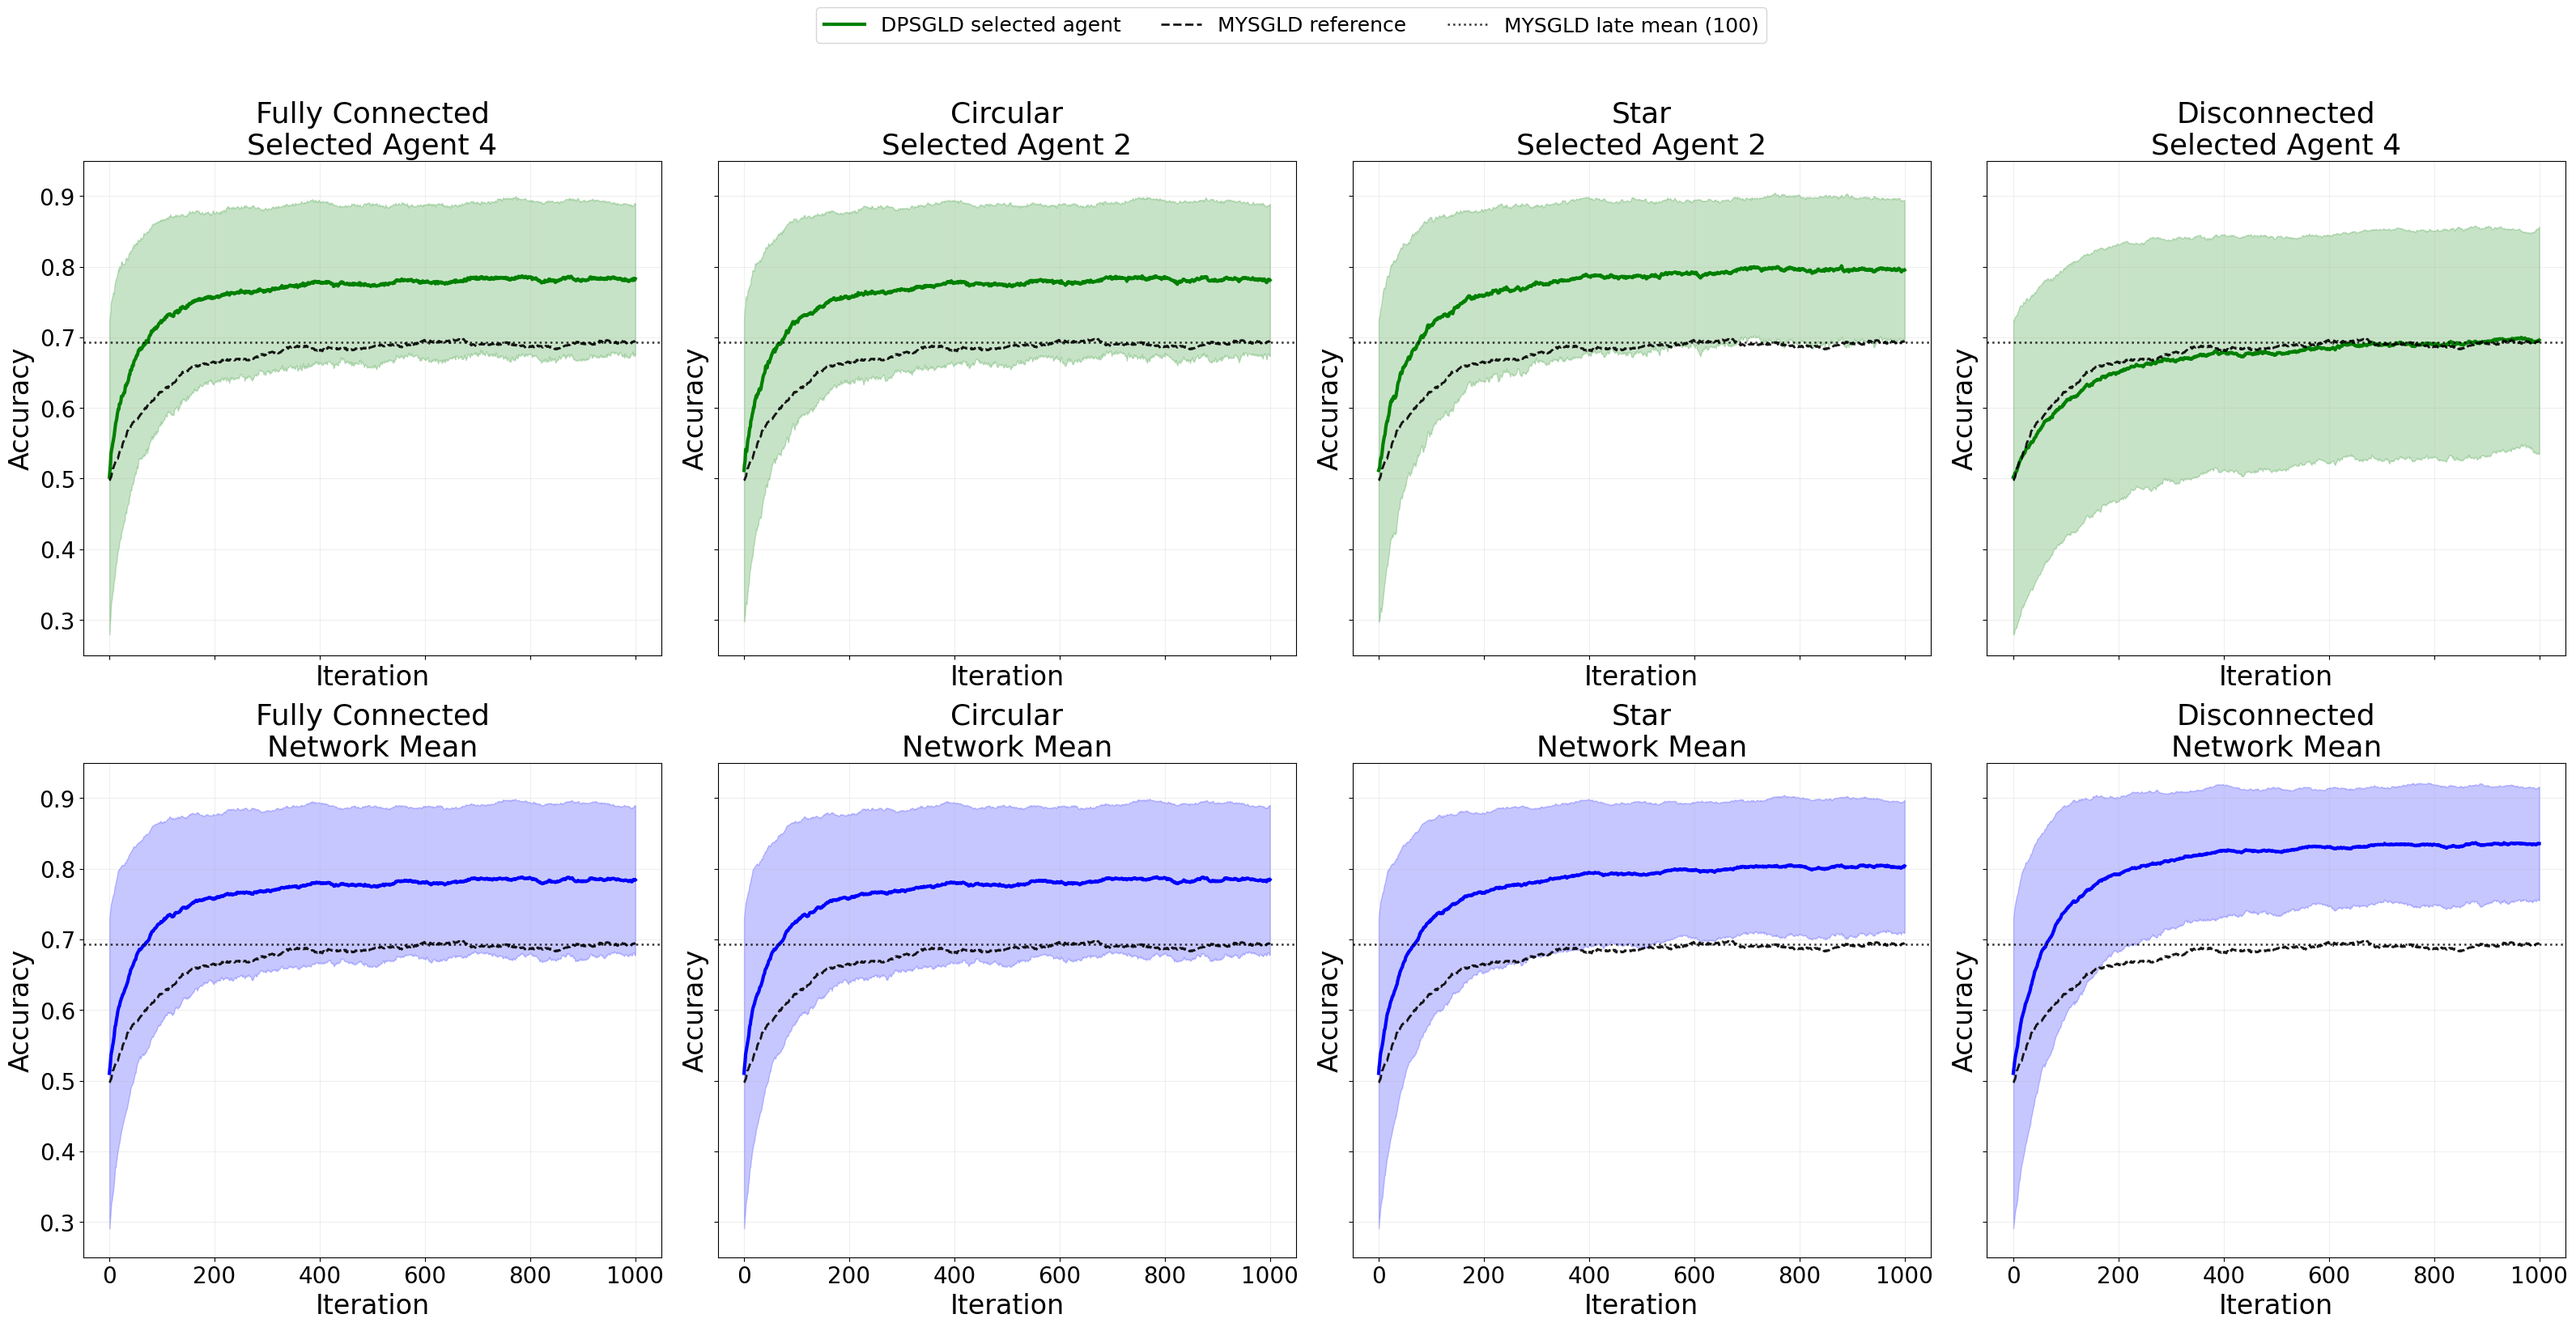
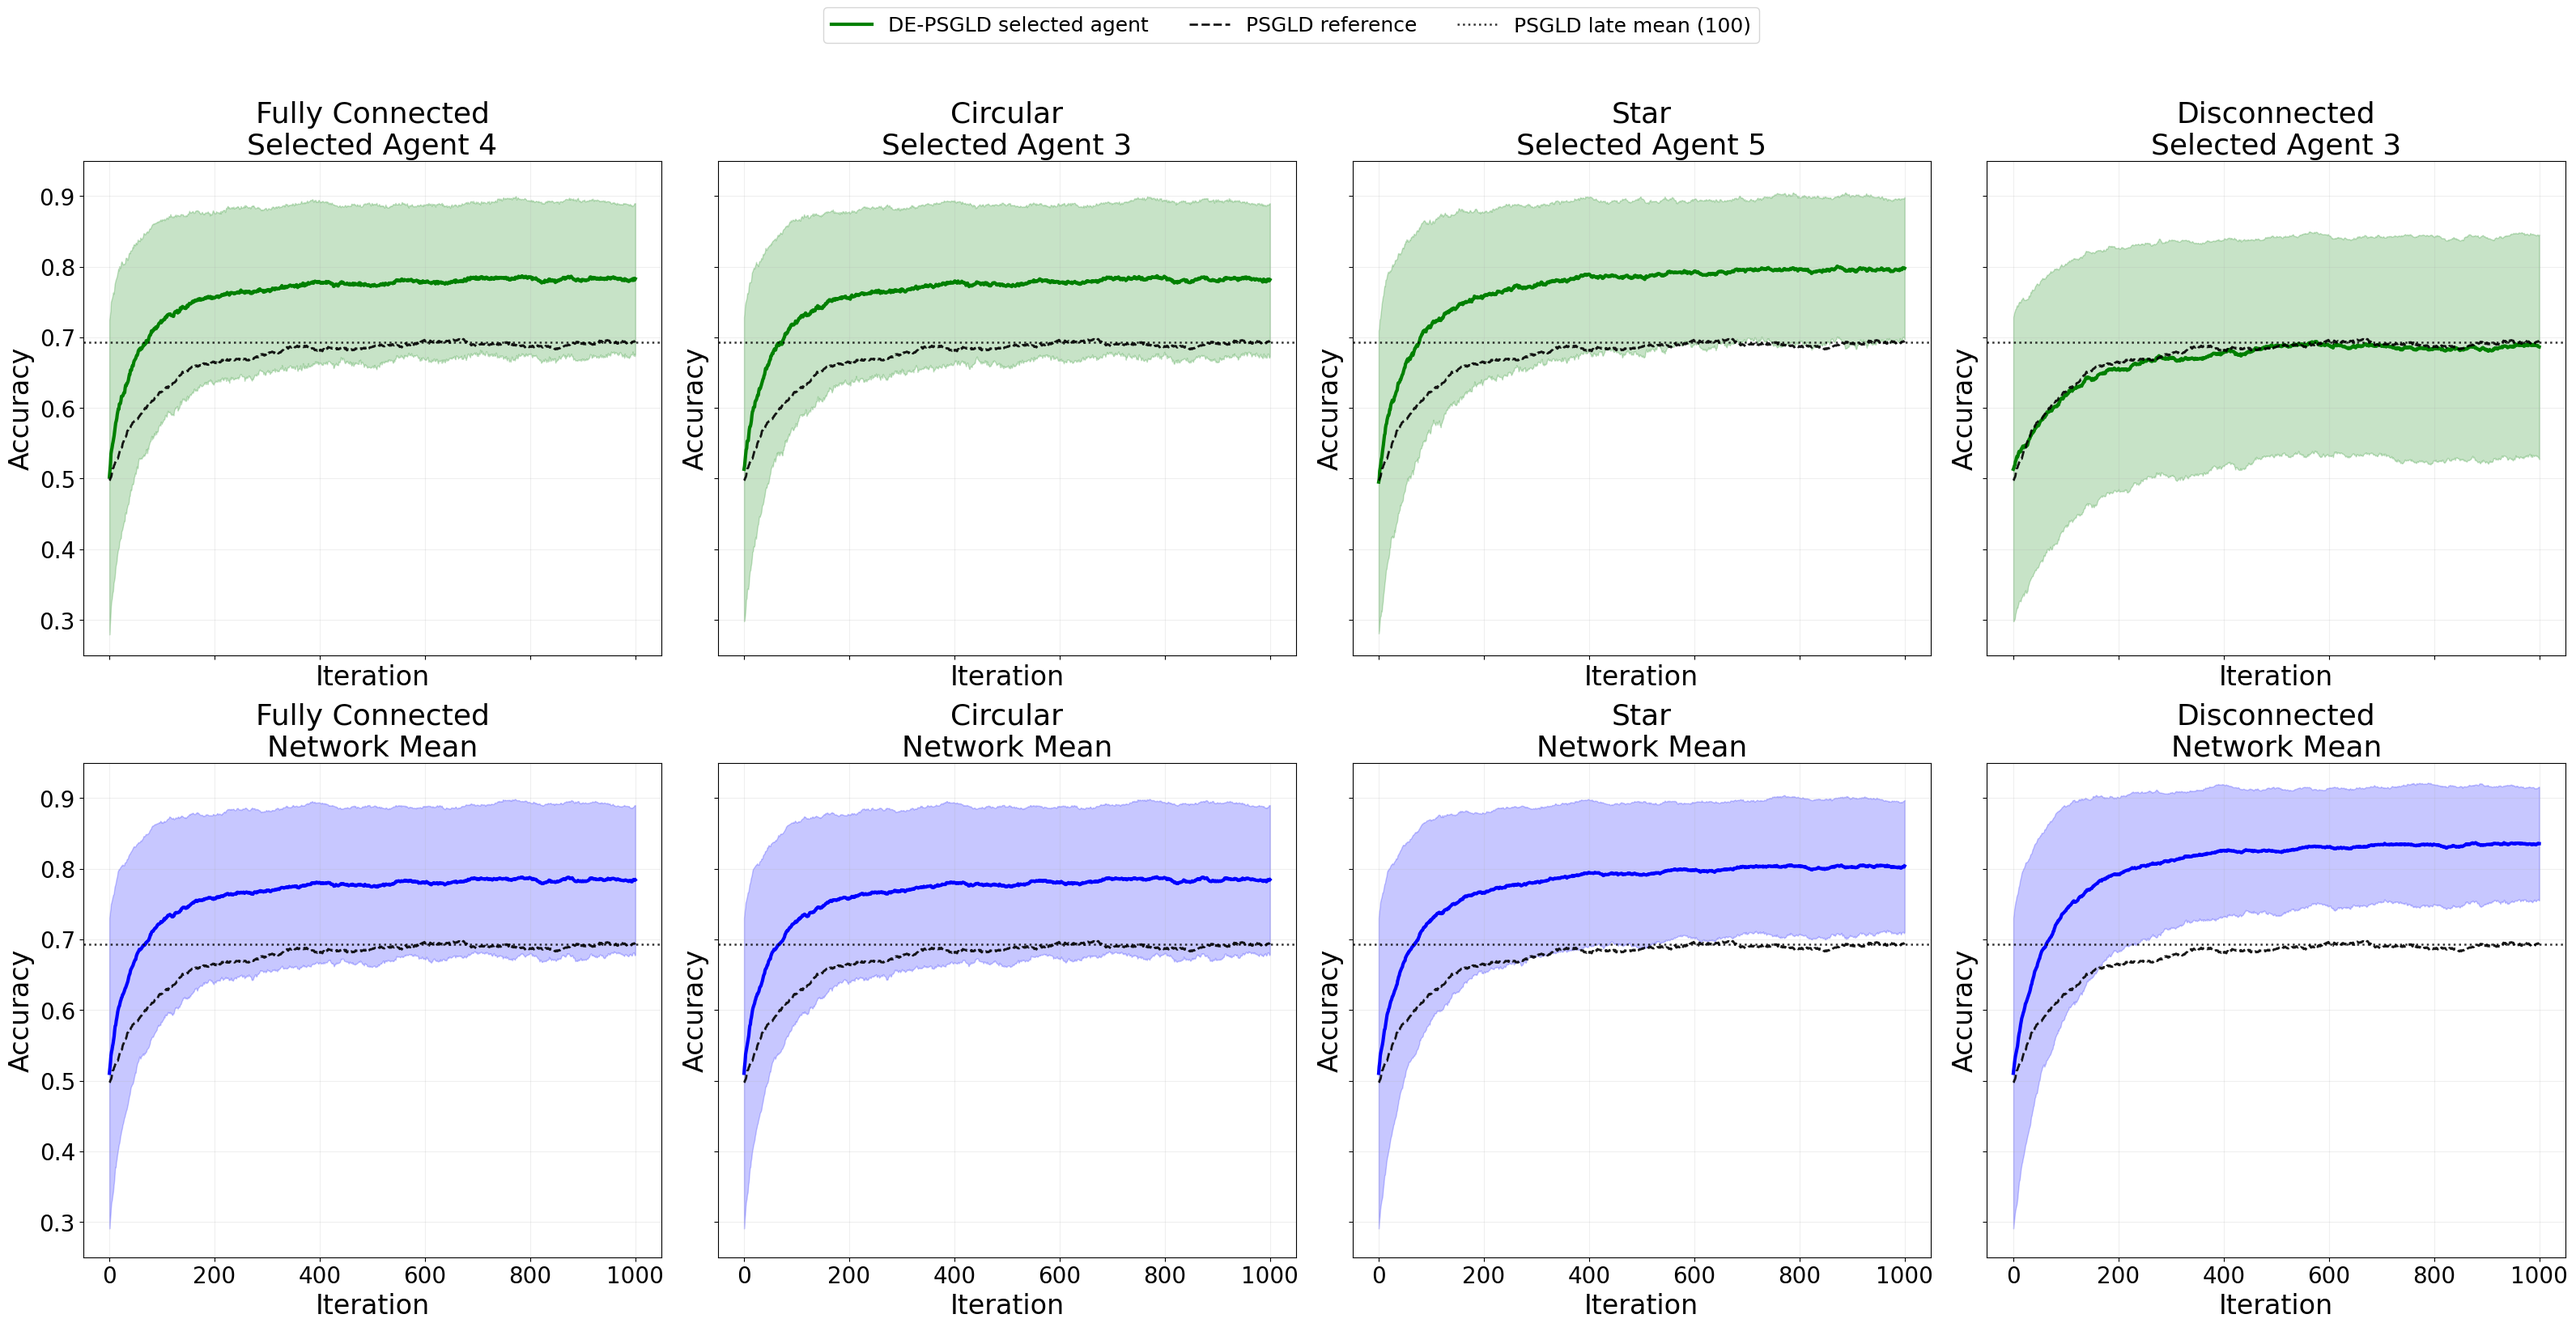
readme updated

diff --git a/README.md b/README.md
@@ -6,4 +6,5 @@
 
 # Decentralized Proximal Stochastic Gradient Langevin Dynamics  
 
-Numerical Experiment
+**Abstract**  
+We propose Decentralized Proximal Stochastic Gradient Langevin Dynamics (DE-PSGLD), a decentralized Markov chain Monte Carlo (MCMC) algorithm for sampling from a log-concave probability distribution constrained to a convex domain. Constraints are enforced through a shared proximal regularization based on the Moreau–Yosida envelope, enabling unconstrained updates while preserving consistency with the target constrained posterior. We establish non-asymptotic convergence guarantees in the 2-Wasserstein distance for both individual agent iterates and their network averages. Our analysis shows that DE-PSGLD converges to a regularized Gibbs distribution and quantifies the bias introduced by the proximal approximation. We evaluate DE-PSGLD for different sampling problems on synthetic and real datasets. As the first decentralized approach for constrained domains, our algorithm exhibits fast posterior concentration and high predictive accuracy.   
